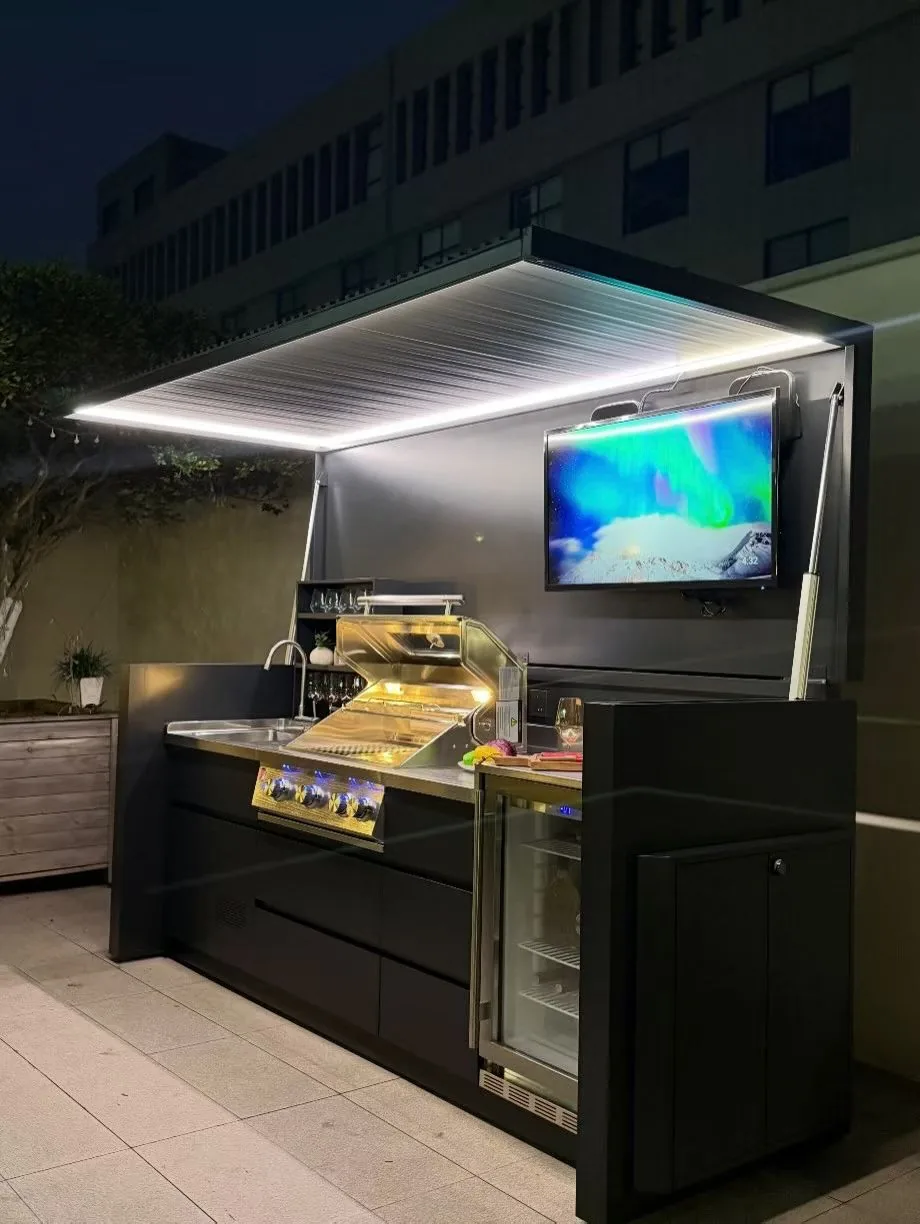
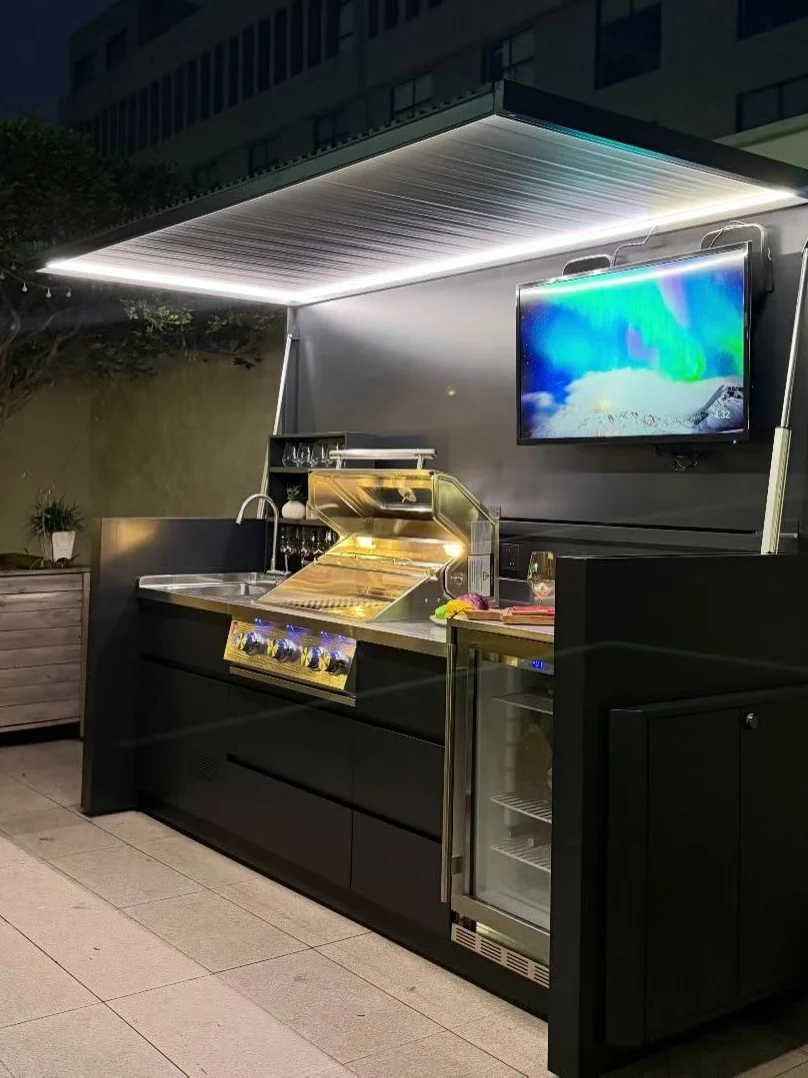
Fix Open/Closed image aspect-ratio bug, recrop closed-state photo

diff --git a/index.html b/index.html
@@ -99,7 +99,7 @@
     .states{background:#fff}
     .states .wrap{display:grid;grid-template-columns:.85fr 1.15fr;gap:56px;align-items:center}
     .state-imgs{display:grid;grid-template-columns:1fr 1fr;gap:12px}
-    .state-imgs img{aspect-ratio:3/4;object-fit:cover;border-radius:14px}
+    .state-imgs img{width:100%;height:auto;aspect-ratio:3/4;object-fit:cover;border-radius:14px}
     .state-imgs figcaption{margin-top:8px;font-size:12px;color:var(--muted);text-align:center}
 
     .economics{background:var(--navy);color:#fff}
@@ -306,8 +306,8 @@
   <section class="states reveal"><div class="wrap">
     <div><div class="eyebrow">Open / closed</div><h2 class="section-title">Open for entertaining. Closed for a clean profile.</h2><p class="lead">A real-site installation shown in both operating states. Exact mechanism, finishes and equipment are confirmed in the approved project scope.</p><div class="btns"><a class="btn dark" href="#models">See PRO &amp; MAX specs</a></div></div>
     <div class="state-imgs">
-      <figure><picture><source srcset="assets/custom-open-state.webp" type="image/webp"><img src="assets/custom-open-state.jpg" alt="KAISTEEL outdoor kitchen in its open operating configuration" width="920" height="1224" loading="lazy"></picture><figcaption>Open</figcaption></figure>
-      <figure><picture><source srcset="assets/custom-closed-state.webp" type="image/webp"><img src="assets/custom-closed-state.jpg" alt="KAISTEEL outdoor kitchen in its closed protective configuration" width="960" height="1276" loading="lazy"></picture><figcaption>Closed</figcaption></figure>
+      <figure><picture><source srcset="assets/custom-open-state.webp" type="image/webp"><img src="assets/custom-open-state.jpg" alt="KAISTEEL outdoor kitchen in its open operating configuration" width="808" height="1078" loading="lazy"></picture><figcaption>Open</figcaption></figure>
+      <figure><picture><source srcset="assets/custom-closed-state.webp" type="image/webp"><img src="assets/custom-closed-state.jpg" alt="KAISTEEL outdoor kitchen in its closed protective configuration" width="718" height="957" loading="lazy"></picture><figcaption>Closed</figcaption></figure>
     </div>
   </div></section>
 
